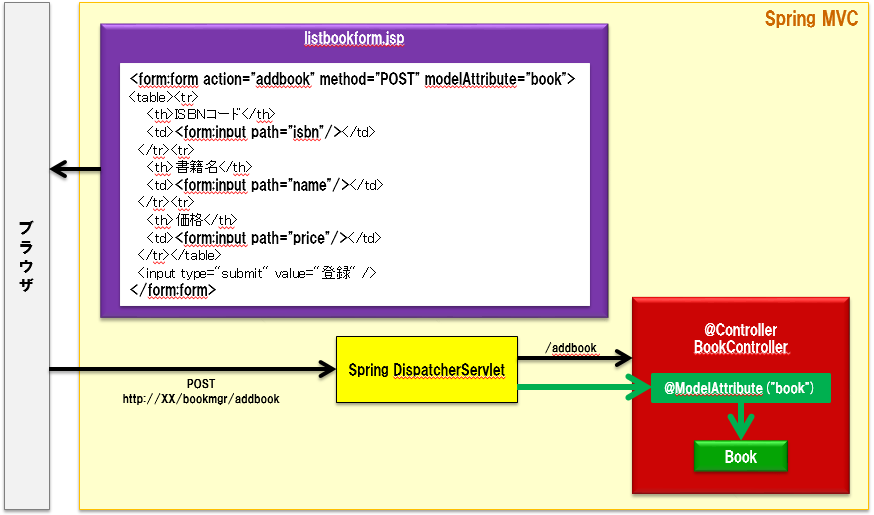
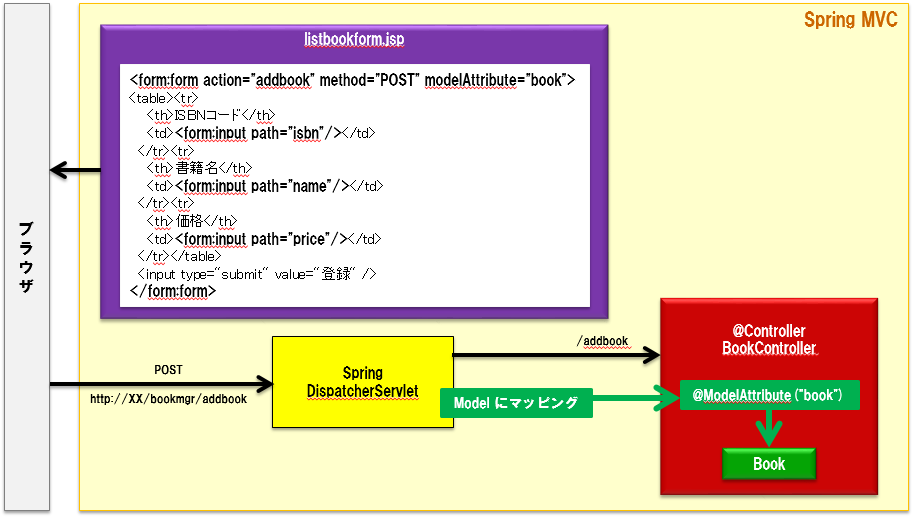
トレーニングテキスト STEP05 まで作成完了

Changed region(s): [[0.0, 0.0, 1.0, 0.9942]]

diff --git a/_texts/step05_text.md b/_texts/step05_text.md
@@ -39,6 +39,102 @@ date:   2017-04-18
     - 学習ポイント
         - 書籍登録処理結果の表示（とりあえず正常系のみ。異常系はこの後）
 
+<h2 class="handson">2. 技術解説 - フォームから入力データを取得する - Spring MVC</h2>
+
+### 2-1. Spring MVC によるデータ登録の流れ
+
+- フォーム画面より入力したデータは、Spring MVC の Model オブジェクトにマッピングされる
+- 入力データをマッピングした Model オブジェクトは、Controller メソッドの引数として渡される
+
+![mvc-logical1]({{ site.baseurl }}/images/texts/tech_step05_01.png "MVC Logic 01")
+
+### 2-2. Spring Form Tag を使用した入力フォーム
+
+- Spring MVC でフォーム画面を実装するには、Spring MVC に用意されている Spring Form Tag が便利
+
+    ```jsp
+    <%@ taglib uri="http://www.springframework.org/tags/form" prefix="form" %>
+    <!-- @@@
+         @@@ 上のtaglibディレクティブで Spring Form taglibrary を取り込む
+         @@@ -->
+
+    <%@ page contentType="text/html; charset=UTF-8" pageEncoding="UTF-8" %>
+    <html>
+    <head><title>書籍登録画面</title></head>
+    <body>
+    <h1>書籍登録画面</h1>
+
+    <form:form action="addbook" method="POST" modelAttribute="book">
+                <!-- @@@
+                     @@@ modelAttribute で Model とドメインオブジェクトがマッピングされる
+                     @@@ 上記の場合、"book" という名前の Book オブジェクトとして取得される
+                     @@@ -->
+
+      <table><tr>
+        <th>ISBNコード</th>
+        <td><form:input path="isbn"/></td>
+      </tr><tr>
+        <th>書籍名</th>
+        <td><form:input path="name"/></td>
+      </tr><tr>
+        <th>価格</th>
+        <td><form:input path="price"/></td>
+      </tr></table>
+                <!-- @@@
+                     @@@ 取り出したBookオブジェクトの各プロパティには
+                     @@@ isbn や name などのプロパティ名だけでアクセスできる
+                     @@@ -->
+
+      <input type="submit" value="登録" />
+    </form:form>
+    </body>
+    </html>
+    ```
+
+- 上記フォームは、input タグの例であるが、この他にも、SELECT や CHECKBOX など比較的複雑なタグもSpring Form Tab で記述できる
+
+### 2-3. フォームで入力されたデータを Controller で受け取る
+
+- フォームで入力されたデータは、HTTP POST でサーバに送信されるが、そのデータは Spring MVC で Model の modelAttribute に追加される。
+- modelAttribute に追加された Domain は、Controller メソッドの引数として受け取ることが可能
+- modelAttribute の登録名はドメインクラス名から自動的に決定されるが、Controller に引数に @ModelAttribute アノテーションを付与すると任意の登録名でもデータを取得することができる
+
+    ```java
+    @RequestMapping(value = "/addbook", method = RequestMethod.POST)
+    public String addBook(@ModelAttribute("book") Book book) throws Exception {
+                    // @@@@   ↑ 
+                    // @@@@ フォーム入力値（リクエストパラメータ）は自動的に
+                    // @@@@ ドメインオブジェクトに格納され、コントローラの引数
+                    // @@@@ として受け取ることができる
+                    // @@@@ 
+
+
+      // Something to do
+      // ...
+    }
+    ```
+
+### 2-4. Controller メソッドの引数について
+
+- Controller メソッドの引数として渡される情報は @ModelAttribute なオブジェクトに限らない
+- 以下の情報がメソッド引数として渡されてくるためアプリで受け取ることができる
+
+    1. URIテンプレートを使用した時の ＠PathVariable を付けた変数
+    1. HTTPリクエストパラメータ @RequestParam を付けた変数
+    1. アップロードファイル
+    1. HTTPリクエストヘッダ @RequestHeader を付けた変数
+    1. クッキー @Cookie を付けた変数
+    1. HTTPリクエストのメッセージボディ @RequestBody を付けた変数
+    1. HTTPEntityオブジェクト
+    1. Model オブジェクト
+    1. ModelAttributeオブジェクト @ModelAttribute を付けた変数
+    1. Session管理オブジェクト
+    1. エラーオブジェクト
+    1. WebRequestオブジェクト
+    1. Servlet API の各種オブジェクト
+    1. ロケール
+    1. その他
+
 <h2 class="handson">3. 技術解説 - Spring JDBC を使用したデータ更新処理</h2>
 
 ### 3-1. Spring JDBC によるデータベース更新の流れ
